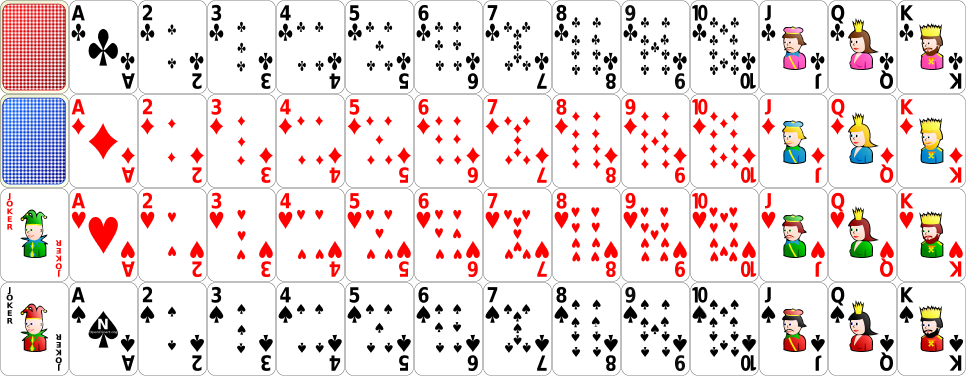
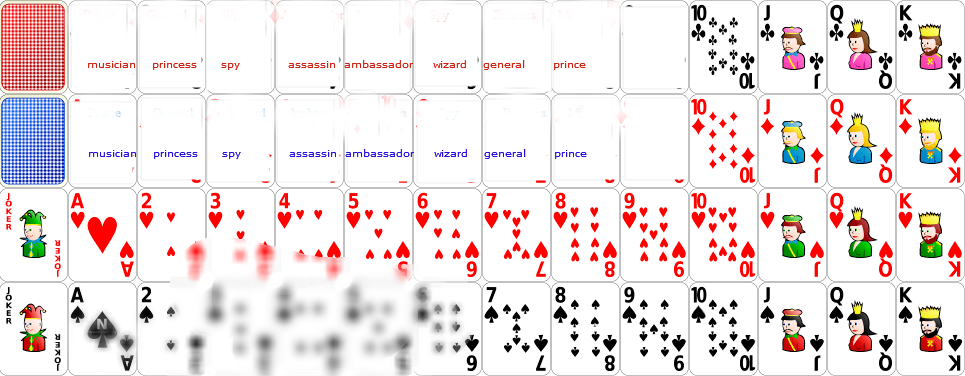
added solomons changes in this commit

diff --git a/cards.js/braverats.js b/cards.js/braverats.js
@@ -1,0 +1,127 @@
+
+//Tell the library which element to use for the table
+cards.init({table:'#card-table', type:STANDARD});
+initMove=60;
+let pointsWorth = [1,1];
+let scores = [0,0];
+let compShow = document.getElementById('comp');	
+let youShow = document.getElementById('you');	
+let abilities = {musician,princess,spy,assassin,ambassador,wizard,general,prince};
+youShow.innerHTML="You: "+ scores[0];
+
+compShow.innerHTML="Computer: "+scores[1];
+
+//Create a new deck of cards
+deck = new cards.Deck();
+//By default it's in the middle of the container, put it slightly to the side
+deck.x -= 50;
+score = 0;
+//cards.all contains all cards, put them all in the deck
+deck.addCards(cards.all);
+//No animation here, just get the deck onto the table.
+deck.render({immediate:true});
+
+//Now lets create a couple of hands, one face down, one face up.
+upperhand = new cards.Hand({faceUp:false, y:60});
+lowerhand = new cards.Hand({faceUp:true,  y:340});
+
+//Lets add a discard pile
+discardPile = new cards.Deck({faceUp:true});
+discardPile.x += 50;
+
+
+//Let's deal when the Deal button is pressed:
+$('#deal').click(function() {
+	//Deck has a built in method to deal to hands.
+	$('#deal').hide();
+	deck.deal(8, [upperhand, lowerhand], 50, function() {
+		//This is a callback function, called when the dealing
+		//is done.
+		discardPile.addCard(deck.topCard());
+		discardPile.render();
+	});
+});
+
+
+//When you click on the top card of a deck, a card is added
+//to your hand
+deck.click(function(card){
+	if (card === deck.topCard()) {
+		lowerhand.addCard(deck.topCard());
+		lowerhand.render();
+	}
+});
+function chooseWinner (rank1,rank2){
+	ranks = runSpecialAbilties(rank1,rank2);
+		
+    if (ranks[0] > ranks[1]){
+      points[0]=pointsWorth[0];
+    }
+    else if(ranks[1] < ranks[0]) {
+      points[1]=pointsWorth[1];
+    }
+	else {
+		pointsWorth = [pointsWorth[0]+1,pointsWorth[1]+1];
+	}
+  }
+
+function runSpecialAbilties(rank1,rank2)
+{
+	if(rank1==5 || rank2==5){
+		return(rank1,rank2)
+	}
+		
+	return(rank1,rank2)
+
+}
+function prince(you,otherRank){
+	if(otherRank!=1&&otherRank!=0){
+		
+	}
+}
+function general(you,otherRank){
+
+}
+function wizard(you,otherRank){
+
+}
+function ambassador(you,otherRank){
+
+}
+function assassin(you,otherRank){
+
+}
+function spy(you,otherRank){
+
+}
+function princess(you,otherRank){
+
+}
+function musician(you,otherRank){
+
+}
+//Finally, when you click a card in your hand, if it's
+//the same suit or rank as the top card of the discard pile
+//then it's added to it
+lowerhand.click(function(card){
+		
+		card.moveTo(initMove,230);
+		let upperVal = Math.floor(Math.random()*upperhand.length);
+		upperhand[upperVal].showCard();
+		upperhand[upperVal].moveTo(initMove,200);
+		points = chooseWinner(card.rank,upperhand[upperVal].rank);
+		upperhand.splice(upperVal,1);
+		lowerhand = lowerhand.filter(hCard=>hCard!=card);
+		initMove+=70;
+		youShow.innerHTML="You: "+ points[0];
+		compShow.innerHTML="Computer: "+points[1];
+		//discardPile.addCard(card);
+		//discardPile.render();
+		//lowerhand.render();
+	
+});
+
+
+//So, that should give you some idea about how to render a card game.
+//Now you just need to write some logic around who can play when etc...
+//Good luck :)

diff --git a/cards.js/cards.js b/cards.js/cards.js
@@ -5,13 +5,13 @@ var cards = (function() {
     cardSize: {
       width: 69,
       height: 94,
-      padding: 18
+      padding: 50
     },
     animationSpeed: 500,
     table: 'body',
     cardback: 'red',
     acesHigh: false,
-    cardsUrl: 'img/cards.png',
+    cardsUrl: 'img/cards(1)(1).png',
     blackJoker: false,
     redJoker: false,
     type: STANDARD,
@@ -19,9 +19,10 @@ var cards = (function() {
   };
   var zIndexCounter = 1;
   var all = []; //All the cards created.
-  var start = 1;
-  var end = start + 12;
-
+  var start = 9;
+  var end = start - 8;
+  
+    
   function mouseEvent(ev) {
     var card = $(this).data('card');
     if (card.container) {
@@ -31,6 +32,7 @@ var cards = (function() {
       }
     }
   }
+  
 
   function init(options) {
     if (options) {
@@ -56,18 +58,16 @@ var cards = (function() {
         opt.loop = 2;
         break;
     }
+    
 
     opt.table = $(opt.table)[0];
     if ($(opt.table).css('position') == 'static') {
       $(opt.table).css('position', 'relative');
     }
-    for (let l = 0; l < opt.loop; l++)
-      for (var i = start; i <= end; i++) {
-        all.push(new Card('h', i, opt.table));
-        all.push(new Card('s', i, opt.table));
+    for (var i = 1; i <= 8; i++) {
         all.push(new Card('d', i, opt.table));
         all.push(new Card('c', i, opt.table));
-      }
+    }
     if (opt.blackJoker) {
       all.push(new Card('bj', 0, opt.table));
     }
@@ -76,7 +76,7 @@ var cards = (function() {
     }
 
     $('.card').click(mouseEvent);
-    shuffle(all);
+    //shuffle(all);
   }
 
   function shuffle(deck) {
@@ -117,7 +117,10 @@ var cards = (function() {
     toString: function() {
       return this.name;
     },
-
+    
+    turnCard: function(cardDir){
+      this.faceUp = cardDir;
+    },
     moveTo: function(x, y, speed, callback) {
       var props = {
         top: y - (opt.cardSize.height / 2),
@@ -125,6 +128,7 @@ var cards = (function() {
       };
       $(this.el).animate(props, speed || opt.animationSpeed, callback);
     },
+
 
     rotate: function(angle) {
       $(this.el)
@@ -167,7 +171,7 @@ var cards = (function() {
   };
 
   function Container() {
-
+    
   }
 
   Container.prototype = new Array();
@@ -184,6 +188,7 @@ var cards = (function() {
     addCards: function(cards) {
       for (var i = 0; i < cards.length; i++) {
         var card = cards[i];
+
         if (card.container) {
           card.container.removeCard(card);
         }

diff --git a/cards.js/braverats.html b/cards.js/braverats.html
@@ -7,21 +7,21 @@
 		<script src="jquery-1.7.min.js"></script>
 	</head>
 	<body>
-		<h1>Cards.js - Example</h1>
-		
+		<h1>Brave Rats</h1>
+		<p class="score" id="comp"></p>
+		<p class="score" id="you"></p>
+
 		<img class="preload" src="img/cards.png"/>
 
 		<div id="card-table">
-			<button id="deal">DEAL</button>
+			<button id="deal"> START
+			
+			</button>
 		</div>
-		<footer>
-			cards.js was created by <a href="http://einaregilsson.com">Einar Egilsson</a> and is licensed
-			under the MIT license. The card images were created by <a href="http://nicubunu.ro">Nicu Buculei</a> and are
-			in the public domain.
-		</footer>
+		
 		<!-- load this at the bottom so the #card-table element exists -->
 		<script src="deckType.js"></script>
 		<script src="cards.js"></script>
-		<script src="example.js"></script>
+		<script src="braverats.js"></script>
 	</body>
 </html>

diff --git a/cards.js/example.css b/cards.js/example.css
@@ -7,7 +7,7 @@ body {
 	border-radius:8px; 
 	box-shadow:black 0px 0px 2px; 
 	width: 600px; 
-	background:#FFF; 
+	background:#111; 
 	margin:20px auto; 
 	border:solid 1px black; 
 	font-family: arial, sans-serif; 
@@ -36,7 +36,9 @@ h1 {
 	text-align:center;
 	padding:0px;
 	margin:10px auto;
+	color:white;
 }
+
 
 #card-table {
 	background-color:green;
@@ -71,3 +73,7 @@ footer a, footer a:visited{
 footer a:hover {
 	color:black;
 }
+.score{
+	color:white;
+}
+

diff --git a/cards.js/deckType.js b/cards.js/deckType.js
@@ -1,3 +1,4 @@
 const STANDARD = 0;
 const EUCHRE = 1;
 const PINOCHLE = 2;
+const BRAVE_RATS=3;
